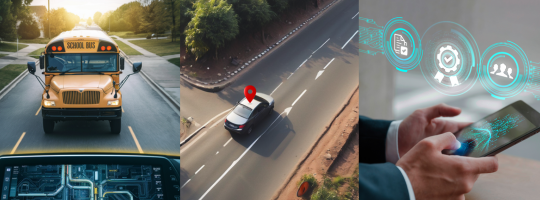
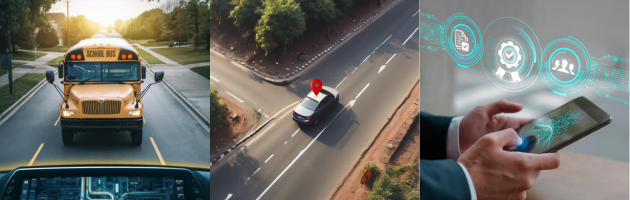
push

diff --git a/index.html b/index.html
@@ -68,6 +68,15 @@
         </td>
       </tr>
       <tr>
+        <td style="text-align: center;">
+          <div style="position: relative; width: 100%; height: auto;margin-bottom: 5%;">
+            <img src="Banner.png" alt="Banner Image" style="display: block; width: 100%; height: auto;">
+            <a target="_blank" href="https://www.astiinfotech.com/trakom/" style="position: absolute; top: 0; left: 0; width: 33.33%; height: 100%; cursor: pointer;"></a>
+            <a target="_blank" href="https://www.astiinfotech.com/fleet-management/" style="position: absolute; top: 0; left: 33.33%; width: 33.33%; height: 100%; cursor: pointer;"></a>
+            <a target="_blank" href="https://imprintai.us/" style="position: absolute; top: 0; left: 66.66%; width: 33.33%; height: 100%; cursor: pointer;"></a>
+          </div>
+      </tr>
+      <tr>
         <td
           colspan="2"
           style="
